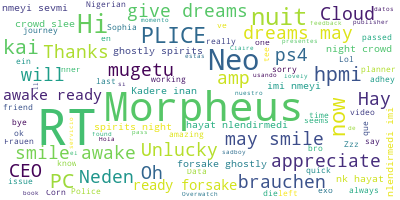
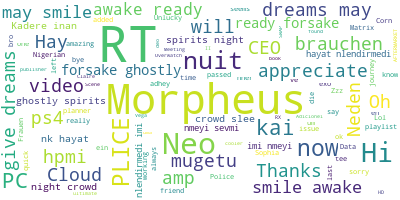
fixed historical.png

diff --git a/app/templates/history.html b/app/templates/history.html
@@ -15,7 +15,7 @@
   </span>
   <div class="bubble-container">
     <div class="bubble">
-      <img src="/static/word_cloud_past_search.png" width=50%>
+      <img src="/static/historical_word_cloud.png" width=50%>
     </div>
   </div>
       <ul>

diff --git a/app/__init__.py b/app/__init__.py
@@ -2,6 +2,7 @@ from flask import Flask
 from config import Config
 from flask_sqlalchemy import SQLAlchemy
 from flask import request, jsonify, Flask, flash, redirect, render_template, session, abort, url_for
+from app import sentiwordcloud
 
 import numpy as np
 import pandas as pd
@@ -25,6 +26,17 @@ db_session = scoped_session(sessionmaker(autocommit=False,
                                          bind=engine))
 Base = declarative_base()
 Base.query = db_session.query_property()
+from app.models import Pynionquery
+
+history = Pynionquery.query.order_by(Pynionquery.count).all()
+print("in init {}".format(history))
+historyarray = []
+for record in history:
+    for i in range (record.count):
+        historyarray.append(record.searchword)
+print("in init historyarray {}".format(historyarray))
+sentiwordcloud.sentiWordCloud(historyarray,"apphistory")
+
 
 def init_db():
     # import all modules here that might define models so that

diff --git a/app/sentiwordcloud.py b/app/sentiwordcloud.py
@@ -8,5 +8,8 @@ def sentiWordCloud(tweetarray,subject):
     # Display the generated image:
     wordcloud = WordCloud(max_font_size=50, max_words=100, background_color="white").generate(text)
     print("got the word cloud")
-    wordcloud.to_file("app/static/word_cloud.png")
+    if (subject == "apphistory"):
+        wordcloud.to_file("app/static/historical_word_cloud.png")
+    else:
+        wordcloud.to_file("app/static/word_cloud.png")
     print("saving the file")
